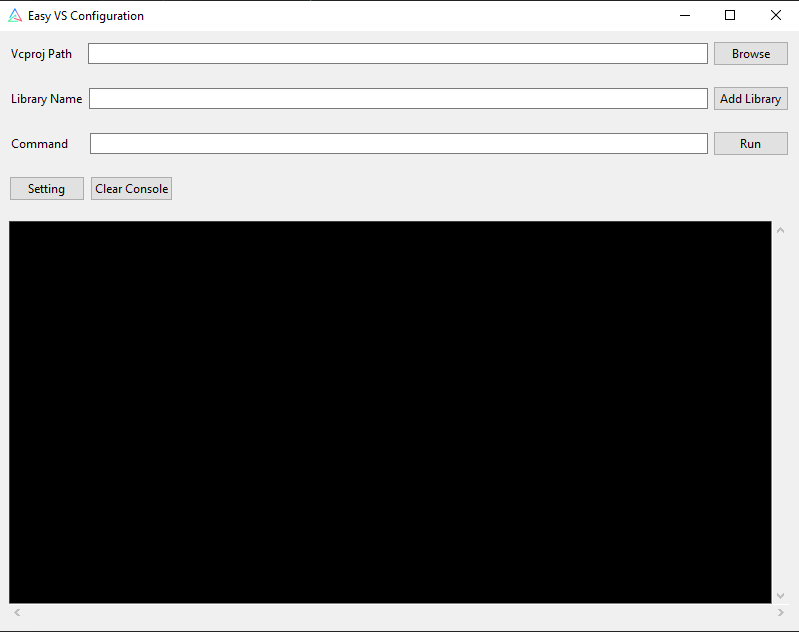
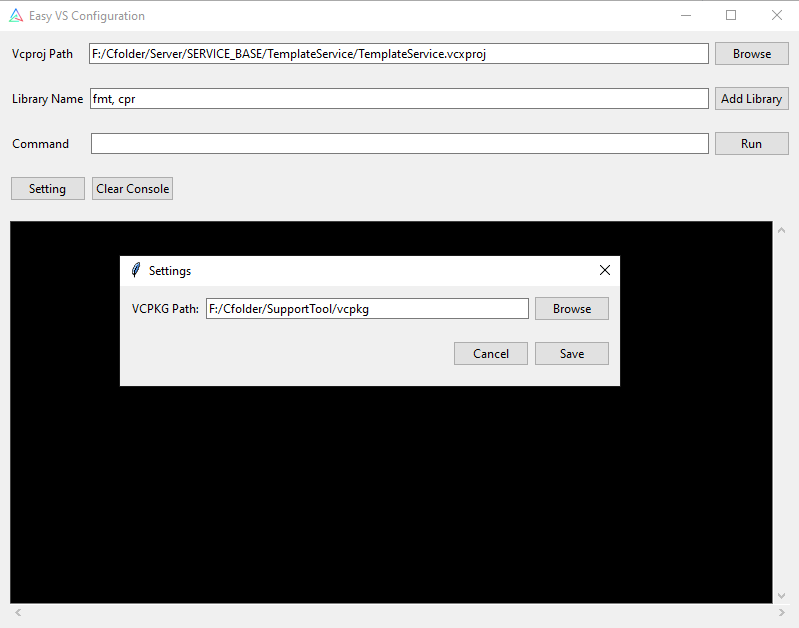
update guide

diff --git a/README.md b/README.md
@@ -1,18 +1,51 @@
 # Easy-VS-Configuration
 
-Ứng dụng này giúp bạn dễ dàng cấu hình và quản lý các thư viện từ vcpkg trong Visual Studio 2022, hỗ trợ quá trình phát triển phần mềm C++ hiệu quả hơn.
+**Easy-VS-Configuration** là một ứng dụng giúp bạn dễ dàng cấu hình và quản lý các thư viện từ [vcpkg](https://github.com/microsoft/vcpkg) trong Visual Studio 2022. Ứng dụng hỗ trợ quá trình phát triển phần mềm C++ hiệu quả hơn bằng cách đơn giản hóa việc cài đặt và tích hợp thư viện.
 
-![image](image.png)
+---
 
-## 1. Clone vcpkg từ GitHub
+## 🛠 Hướng dẫn cài đặt và sử dụng
+
+### 1. Clone vcpkg từ GitHub
+
 Mở **Command Prompt (cmd)** hoặc **PowerShell**, sau đó chạy:
 
 ```sh
 git clone https://github.com/microsoft/vcpkg.git
 cd vcpkg
 bootstrap-vcpkg.bat
+```
 
-Lưu ý: Nếu bạn dùng Linux/macOS, hãy chạy:
-./bootstrap-vcpkg.sh
+> 🔔 **Lưu ý:** Nếu bạn dùng Linux/macOS, hãy chạy:
+>
+> ```sh
+> ./bootstrap-vcpkg.sh
+> ```
 
-Mở app và setting đường dẫn vào vcpkg folder là xong
+---
+
+### 2. Tải và cài đặt Easy-VS-Configuration
+
+```sh
+git clone https://github.com/phsang198/Easy-VS-Configuration.git
+cd Easy-VS-Configuration
+pip install -r requirements.txt
+python app.py
+```
+
+---
+
+### 3. Sử dụng
+
+* Nhấn **Setting** → thêm đường dẫn đến thư mục `vcpkg` → **OK**.
+* Nhấn **Browse** để mở file dự án `.vcproj` hoặc `.sln`.
+* Nhập các thư viện cần cài đặt (ví dụ: `fmt`, `cpr`, `curl`) → nhấn **Add library** để tự động cài đặt và tích hợp vào dự án.
+* Bạn cũng có thể sử dụng các lệnh vcpkg trực tiếp từ giao diện (vcpkg command).
+
+---
+
+## 📷 Giao diện minh họa
+
+![alt text](image.png)
+
+---
